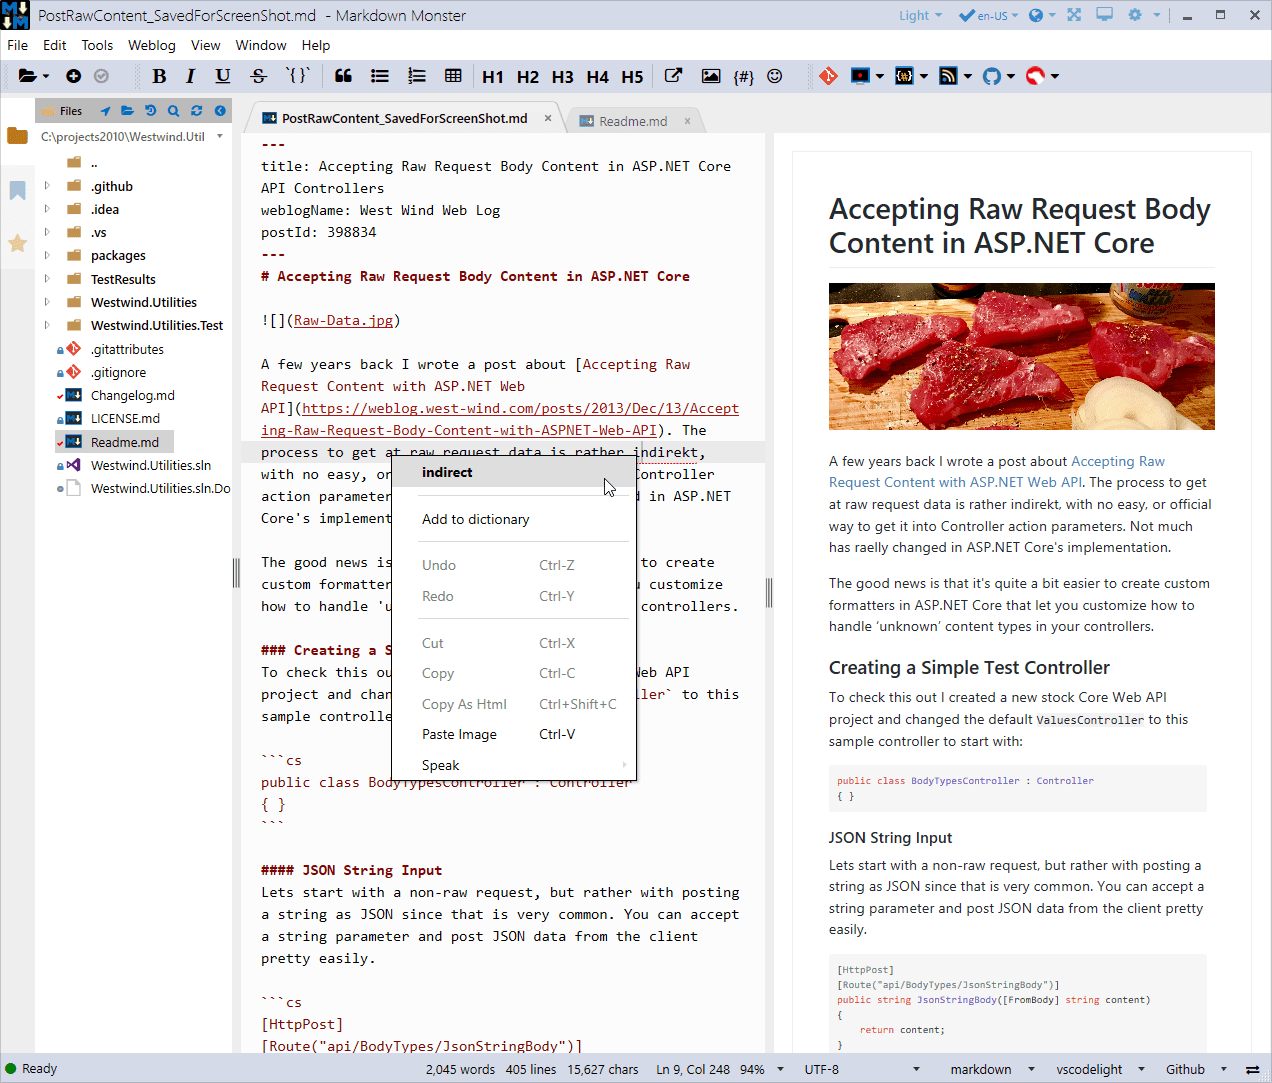
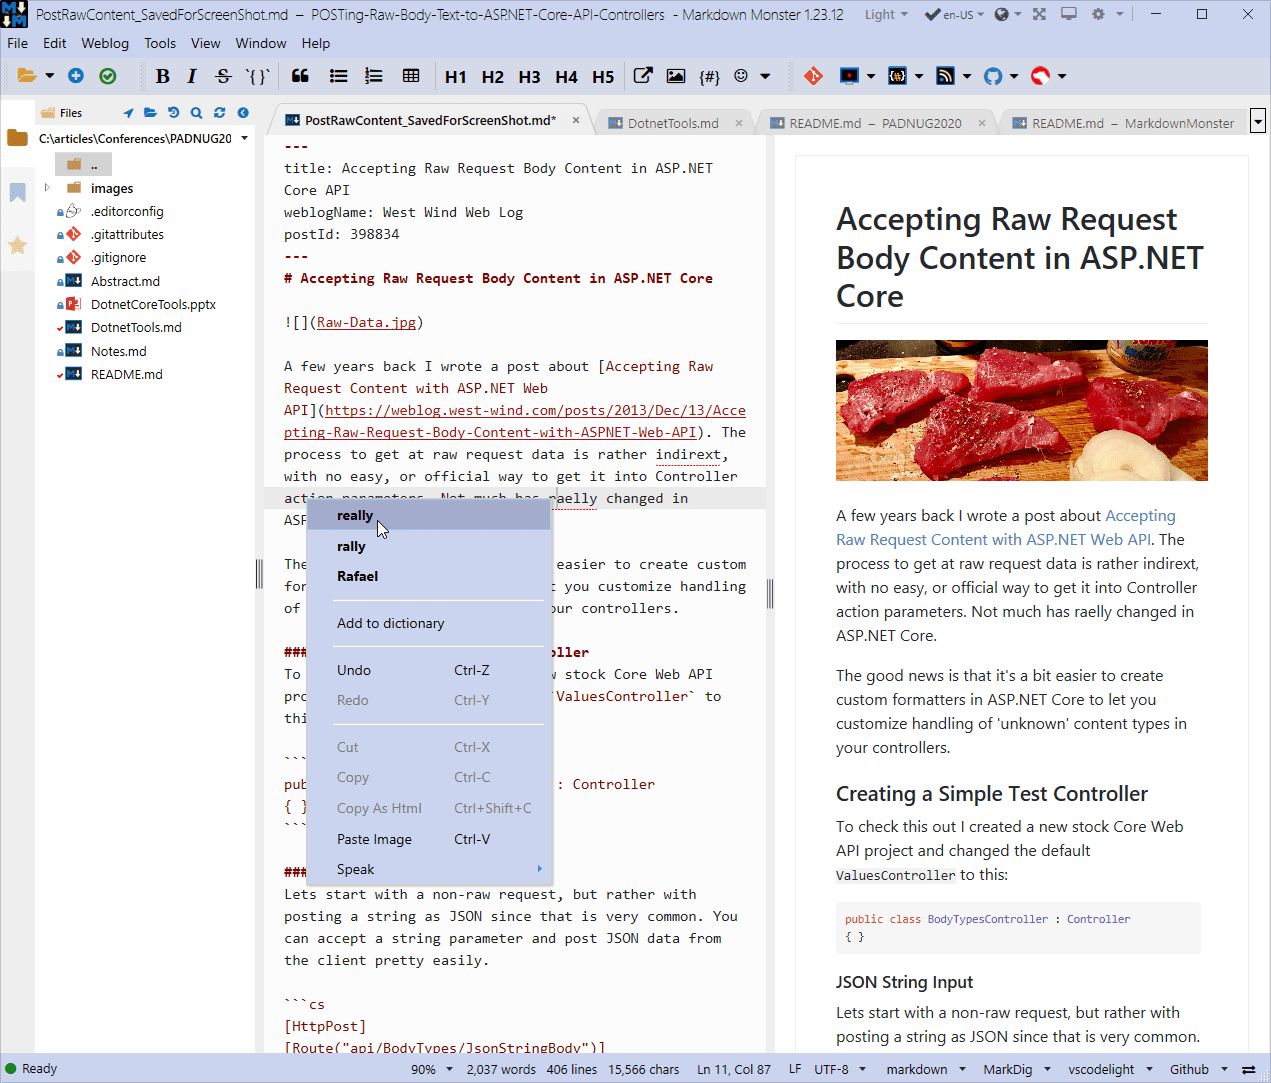
1.23.12

diff --git a/MarkdownMonster/Styles/MahLightResources.xaml b/MarkdownMonster/Styles/MahLightResources.xaml
@@ -6,6 +6,10 @@
                     xmlns:dragablz="http://dragablz.net/winfx/xaml/dragablz"
                     mc:Ignorable="options">
 
+    <!-- Highlight Colors -->
+    <SolidColorBrush x:Key="BlueItem" Color="#0D7EBE" />
+    <SolidColorBrush x:Key="ControlBoxBrush" Color="#222" />
+    <SolidColorBrush x:Key="SidebarHeaderBackground" Color="#eee"/>
 
     <!-- Menu Colors -->
     <SolidColorBrush x:Key="MahApps.Brushes.SubMenu.Border" Color="#ccc" />
@@ -13,11 +17,23 @@
     <!--<SolidColorBrush x:Key="MahApps.Brushes.MenuItem.SelectionFill" Color="#414141" />-->
 
     <!-- Title and StatusBar Foreground Color -->
-    <SolidColorBrush x:Key="MahApps.Brushes.IdealForeground" Color="#222" />
-  
-    <SolidColorBrush x:Key="BlueItem" Color="#0080FF" />
-    <SolidColorBrush x:Key="ControlBoxBrush" Color="#222" />
-    <SolidColorBrush x:Key="SidebarHeaderBackground" Color="#bbb"/>
+    <SolidColorBrush x:Key="MahApps.Brushes.IdealForeground" Color="#090909" />
+
+    <!-- Blueish VS Style Menu bar -->
+    <SolidColorBrush x:Key="MahApps.Brushes.Menu.Background" Color="#CBD4EF" options:Freeze="True" />
+    <SolidColorBrush x:Key="MahApps.Brushes.MenuItem.Background" Color="#CBD4EF" options:Freeze="True" />
+    <SolidColorBrush x:Key="MahApps.Brushes.ContextMenu.Background" Color="#CBD4EF" options:Freeze="True" />
+    <SolidColorBrush x:Key="MahApps.Brushes.SubMenu.Background" Color="#CBD4EF" options:Freeze="True" />
+    
+    <SolidColorBrush x:Key="MahApps.Brushes.MenuItem.SelectionFill" Color="#A3ADCB" options:Freeze="True" />
+    <SolidColorBrush x:Key="MahApps.Brushes.MenuItem.SelectionStroke" Color="#A6C5DD" options:Freeze="True" />
+
+    <SolidColorBrush x:Key="MahApps.Brushes.TopMenuItem.PressedFill" Color="#A3ADCB" options:Freeze="True" />
+    <SolidColorBrush x:Key="MahApps.Brushes.TopMenuItem.PressedStroke" Color="#A3ADCB" options:Freeze="True" />
+    <SolidColorBrush x:Key="MahApps.Brushes.TopMenuItem.SelectionStroke" Color="#A3ADCB" options:Freeze="True" />
+
+    <SolidColorBrush x:Key="MahApps.Brushes.T" Color="#A3ADCB" options:Freeze="True" />
+
 
     <Style  x:Key="HeaderTextBoxStyle" TargetType="{x:Type TextBox}"
             BasedOn="{StaticResource {x:Type TextBox}}">

diff --git a/MarkdownMonster/Windows/FolderBrowserSidebar/FolderBrowerSidebar.xaml b/MarkdownMonster/Windows/FolderBrowserSidebar/FolderBrowerSidebar.xaml
@@ -102,18 +102,17 @@
         </Grid.RowDefinitions>
 
         <StackPanel Name="SearchPanel" Visibility="Collapsed">
-            <Grid Background="{StaticResource  SidebarHeaderBackground}">
+            <Grid Background="{StaticResource SidebarHeaderBackground}">
 
                 <Grid.ColumnDefinitions>
                     <ColumnDefinition Width="*" />
                     <ColumnDefinition Width="auto" />
                 </Grid.ColumnDefinitions>
-
                 
-                    <TextBlock Height="Auto" 
+                <TextBlock Height="Auto" 
                            Text="SEARCH" 
-                           FontWeight="Medium" FontSize="12"  Padding="4,5,2,5" />
-                
+                           FontWeight="Medium" FontSize="12"  
+                           Padding="4,5,2,5" />
 
                 <Button fa:Awesome.Content="Remove" Grid.Column="1" Background="Transparent"
                         Foreground="{DynamicResource BlueItem}" Padding="5,0,5,0"
@@ -168,7 +167,8 @@
                 <RowDefinition Name="ImagePreviewColumn"  Height="Auto"/>
             </Grid.RowDefinitions>
 
-            <Grid Background="{StaticResource  SidebarHeaderBackground}">
+            <Grid Background="{StaticResource SidebarHeaderBackground}">
+                
                 <Grid.ColumnDefinitions>
                     <ColumnDefinition Width="*" />
                     <ColumnDefinition Width="Auto" />

diff --git a/MarkdownMonster/Styles/MahDarkResources.xaml b/MarkdownMonster/Styles/MahDarkResources.xaml
@@ -5,16 +5,18 @@
                     xmlns:dragablz="http://dragablz.net/winfx/xaml/dragablz"
                     mc:Ignorable="options">
 
+    <!-- Highlight Colors -->
+    <SolidColorBrush x:Key="BlueItem" Color="#5BB3FF" />
+    <SolidColorBrush x:Key="ControlBoxBrush" Color="#5BB3FF" />
+    <SolidColorBrush x:Key="SidebarHeaderBackground" Color="#555"/>
+
 
     <!-- Menu Colors -->
     <SolidColorBrush x:Key="MahApps.Brushes.SubMenu.Border" Color="#606060" />
     <SolidColorBrush x:Key="MahApps.Brushes.ContextMenu.Border" Color="#606060" />
     <SolidColorBrush x:Key="MahApps.Brushes.MenuItem.SelectionFill" Color="#414141" />
 
-    <!-- Highlight Colors -->
-    <SolidColorBrush x:Key="BlueItem" Color="#5BB3FF" />
-    <SolidColorBrush x:Key="ControlBoxBrush" Color="#5BB3FF" />
-    <SolidColorBrush x:Key="SidebarHeaderBackground" Color="#555"/>
+
 
     <Style  x:Key="HeaderTextBoxStyle" TargetType="{x:Type TextBox}"
             BasedOn="{StaticResource {x:Type TextBox}}">

diff --git a/MarkdownMonster/Styles/Common.xaml b/MarkdownMonster/Styles/Common.xaml
@@ -17,7 +17,7 @@
     
     <System:Double x:Key="MahApps.Font.Size.Header">40</System:Double>
     <System:Double x:Key="MahApps.Font.Size.SubHeader">29.333</System:Double>
-    <System:Double x:Key="MahApps.Font.Size.Window.Title">16</System:Double>
+    <System:Double x:Key="MahApps.Font.Size.Window.Title">14.5</System:Double>
     <System:Double x:Key="MahApps.Font.Size.Default">16</System:Double>
     <System:Double x:Key="MahApps.Font.Size.Content">14</System:Double>
     <System:Double x:Key="MahApps.Font.Size.Button.Flat">15</System:Double>

diff --git a/MarkdownMonster/MainWindow.xaml b/MarkdownMonster/MainWindow.xaml
@@ -656,7 +656,7 @@
                                 Command="{Binding Commands.NewDocumentCommand}" 
                                 ToolTip="New file (Ctrl+N)"                                
                                 fa:Awesome.Content="PlusCircle" 
-                                Foreground="SteelBlue"
+                                Foreground="{StaticResource BlueItem}"
                                 TextElement.FontFamily="pack://application:,,,/FontAwesome.WPF;component/#FontAwesome" 
                                 />
 

diff --git a/MarkdownMonster/Controls/ContextMenus/RecentDocumentsContextMenu.cs b/MarkdownMonster/Controls/ContextMenus/RecentDocumentsContextMenu.cs
@@ -101,9 +101,9 @@ namespace MarkdownMonster.Controls.ContextMenus
                 {
                     Text = path,
                     FontStyle = FontStyles.Italic,
-                    FontSize = 10.25,
-                    //Margin = new Thickness(0, 2, 0, 0),
-                    Foreground = lowlightColor
+                    FontSize = 10.35,
+                    //Margin = new Thickness(0, 1, 0, 0),
+                    Opacity = 0.80
                 });
 
 
@@ -112,7 +112,7 @@ namespace MarkdownMonster.Controls.ContextMenus
                     Header = content,
                     Command = Window.Model.Commands.OpenRecentDocumentCommand,
                     CommandParameter = file,
-                    Padding = new Thickness(0, 2, 0, 3)
+                    Padding = new Thickness(0, 1, 0, 3)
                 };
 
                 if (mode == RecentFileDropdownModes.ToolbarDropdown)
@@ -165,8 +165,8 @@ namespace MarkdownMonster.Controls.ContextMenus
                     {
                         Text = path,
                         FontStyle = FontStyles.Italic,
-                        FontSize = 10.25,
-                        Margin = new Thickness(0, 2, 0, 0),
+                        FontSize = 10.35,
+                        //Margin = new Thickness(0, 1, 0, 0),
                         Opacity = 0.8
                     });
 

diff --git a/MarkdownMonster/_Classes/Configuration/mmApp.cs b/MarkdownMonster/_Classes/Configuration/mmApp.cs
@@ -616,8 +616,8 @@ Markdown Monster v{version}
             else
             {
                 // Light theme
-                window.WindowTitleBrush = (SolidColorBrush)new BrushConverter().ConvertFrom("#D4D9E7");
-                window.NonActiveWindowTitleBrush = (SolidColorBrush)(new BrushConverter().ConvertFrom("#eee"));
+                window.WindowTitleBrush = (SolidColorBrush)new BrushConverter().ConvertFrom("#CBD4EF");
+                window.NonActiveWindowTitleBrush = (SolidColorBrush)(new BrushConverter().ConvertFrom("#CBD4EF"));
             }
         }
         #endregion

diff --git a/mmcli/CommandLineProcessor.cs b/mmcli/CommandLineProcessor.cs
@@ -37,7 +37,7 @@ namespace mmcli.CommandLine
             {
                 arg0 = CommandArgs[0].ToLower().TrimStart('-');
 
-                if (CommandArgs[0] == "-")
+                if (CommandArgs[0] == "-") // EXACT MATCH
                     arg0 = "-";
             }
 

diff --git a/Changelog.md b/Changelog.md
@@ -4,14 +4,17 @@
 [![Chocolatey](https://img.shields.io/chocolatey/dt/markdownmonster.svg)](https://chocolatey.org/packages/MarkdownMonster)
 [![Web Site](https://img.shields.io/badge/Markdown_Monster-WebSite-blue.svg)](https://markdownmonster.west-wind.com)
 
-### 1.24 
-*<small>not released yet</small>*
+### 1.23.12 
+*<small>July 6th, 2020</small>*
 
-* **Statusbar Tooltip**  
+* **Statusbar Text Tooltip**  
 The status bar now also shows a multi-line tooltip for extra long messages that might overflow the status bar area. 
 
-* **Switch to MahApps 2.0**  
+* **Switch to MahApps 2.1**  
 Switched MM to use latest MahApps Metro UI framework. This provides a number of enhancements plus better stability and consistency for many UI operations.
+
+* **Light Theme Enhancements**  
+In light of the MahApps update the light theme has seen a number of updates for better consistency and color contrast in a few areas.
 
 ### 1.23 
 *<small>June 9th</small>*
